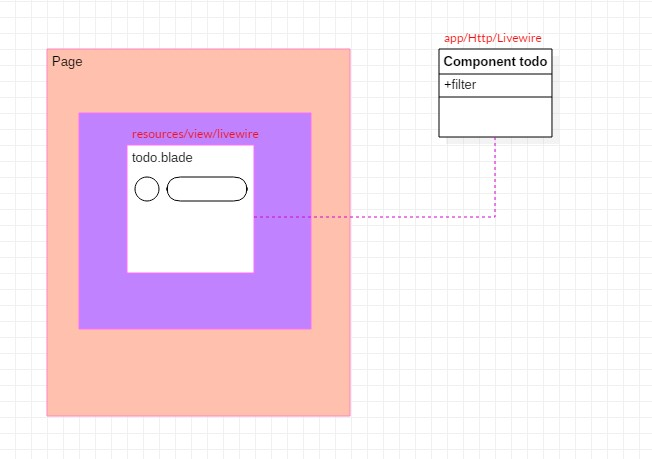
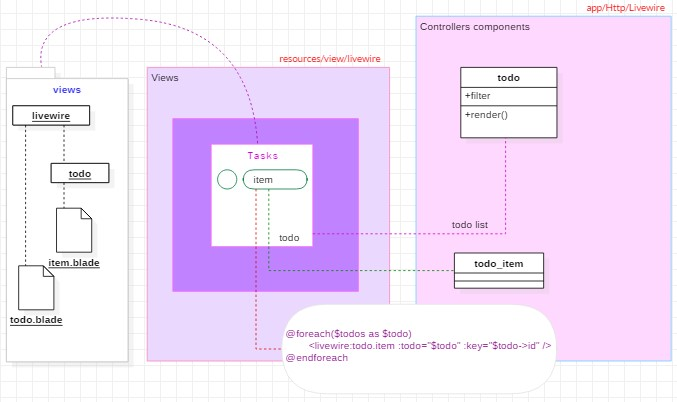
feat: add CRUD tasks

diff --git a/resources/views/livewire/todo.blade.php b/resources/views/livewire/todo.blade.php
@@ -1,42 +1,39 @@
-
 <div>
+    {{--  --}}
     <!--========== Input task ==========-->
     <div class="mb-4">
-        <div class="flex mt-4">
-            <input class="shadow appearance-none border rounded w-full py-2 px-3 mr-4 text-grey-darker" placeholder="Descrição da tarefa">
-            <button class="flex-no-shrink p-2 border-2 rounded text-teal border-teal hover:text-white hover:bg-teal">Add</button>
-        </div>
+        <livewire:todo.create/>
     </div>
 
+    {{--  --}}
     <!--========== Filter ==========-->
-    <div class="sm:flex mt-2 mb-2 sm:items-center sm:justify-center">
+    <div class="sm:flex mt-2 mb-2 sm:items-center sm:justify-center text-sm text-stone-500">
             <label for="filter_all" class="mr-3">
                 <input type="radio" id="filter_all" name="filter" wire:model="filter" value="all">
-                <span>All</span>
+                <span>Todas</span>
             </label>
 
             <label for="filter_pending" class="mr-3">
                 <input type="radio" id="filter_pending" name="filter" wire:model="filter" value="pending">
-                <span>Pending</span>
+                <span>Pendentes</span>
             </label>
 
             <label for="filter_done">
                 <input type="radio" id="filter_done" name="filter" wire:model="filter" value="done">
-                <span>Done</span>
+                <span>Concluidas</span>
             </label>
     </div>
 
-    <!--========== list todos component ==========-->
-    @foreach($todos as $todo)
-        <div class="flex mb-4 items-center">
-            <p class="w-full text-sm text-grey-darkest">{{$todo->title}}</p>
-            <input class="ml-4" type="checkbox">
-            <button class="middle none center mr-2 ml-4 rounded-lg bg-red-200 px-1 py-0 font-sans text-xs font-bold
-                            uppercase shadow-md shadow-red-300/20 transition-all hover:shadow-lg hover:shadow-red-500/40
-                            focus:opacity-[0.95] focus:shadow-none active:opacity-[0.85] active:shadow-none
-                            disabled:pointer-events-none disabled:opacity-50 disabled:shadow-none" data-ripple-light="true">
-                X
-            </button>
-        </div>
-    @endforeach
+        {{--  --}}
+        @if(count($todos) > 0)
+            @foreach($todos as $todo)
+                <livewire:todo.item :todo="$todo" :key="$todo->id" />
+            @endforeach
+        @else
+            <div class="relative flex flex-col min-w-0 break-words bg-green-300 border-0 bg-clip-border rounded-2xl mb-5 draggable">
+                <div class="px-9 pt-5 flex text-indigo-600 font-bold justify-center items-stretch flex-wrap min-h-[70px] pb-0 bg-transparent">
+                    Todas metas foram concluídas!! :)
+                </div>
+            </div>
+        @endif
 </div>

diff --git a/resources/views/todo-task.blade.php b/resources/views/todo-task.blade.php
@@ -8,9 +8,10 @@
 
     <!--================== livewire style css ==================-->
     <livewire:styles />
-
+    <script src="https://cdn.jsdelivr.net/gh/alpinejs/alpine@v2.8.2/dist/alpine.min.js" defer></script>
     <!--========== ICON REMIXICON ==========-->
     <link href="https://cdn.jsdelivr.net/npm/remixicon@2.5.0/fonts/remixicon.css" rel="stylesheet">
+
 
     <!--========== VITE css app ==========-->
     @vite('resources/css/app.css')
@@ -20,7 +21,7 @@
         <div class="max-w-md w-full p-5 bg-white rounded-lg shadow-lg">
 
             <!--========== title ==========-->
-            <h1 class="text-3xl font-semibold text-center text-gray-600 mt-1 mb-1">Lista de tarefas</h1>
+            <h1 class="text-3xl font-bold text-center text-gray-600 mt-1 mb-1">Lista de tarefas ❤</h1>
 
             <!--========== call component livewire ==========-->
             <livewire:todo/>
@@ -53,5 +54,6 @@
 
     <!--================== livewire javascript css ==================-->
     <livewire:scripts />
+    <script src="https://cdn.jsdelivr.net/gh/alpinejs/alpine@v2.8.2/dist/alpine.min.js" defer></script>
 </body>
 </html>

diff --git a/app/Http/Livewire/Todo.php b/app/Http/Livewire/Todo.php
@@ -2,20 +2,25 @@
 
 namespace App\Http\Livewire;
 
-use Livewire\Component;
 use App\Models\Todo as ModelsTodo;
+use Livewire\Component;
 
 class Todo extends Component
 {
+    public string $filter = 'all';
 
-    public $filter = 'all';
-    public $tot = 0;
+    protected $listeners = [
+        'todo::updated' => '$refresh',
+        'todo::created' => '$refresh',
+        'todo::deleted' => '$refresh'
+    ];
 
     public function render()
     {
-        $todos = \App\Models\Todo::query()
-            ->when($this->filter == "done", fn($q) => $q->where('checked', 1))
-            ->when($this->filter == "pending", fn($q)=>$q->where('checked', 0))
+        $todos = ModelsTodo::query()
+            ->when($this->filter == "done", fn($q) => $q->where('checked', true))
+            ->when($this->filter == "pending", fn($q)=>$q->where('checked', false))
+            ->orderBy('checked')
             ->get();
 
         return view('livewire.todo', [

diff --git a/app/Http/Livewire/Todo/Create.php b/app/Http/Livewire/Todo/Create.php
@@ -1,0 +1,35 @@
+<?php
+
+namespace App\Http\Livewire\Todo;
+
+use App\Models\Todo;
+use Livewire\Component;
+
+
+class Create extends Component
+{
+
+    public string $title ='';
+
+    protected $messages = [
+        'title.required' => 'A descrição é obrigatória e deve ser mais que 3 letras!'
+    ];
+
+    public function render()
+    {
+        return view('livewire.todo.create');
+    }
+
+    public function save()
+    {
+        $this->validate(['title' => ['required', 'min:3']],
+            [
+                'title.required' => 'Descrição é obrigatória!',
+                'title.min'=> 'Mínimo de 3 letras, por favor!'
+            ]);
+
+        Todo::create(['title' => $this->title]);
+        $this->reset('title');
+        $this->emitTo(\App\Http\Livewire\Todo::class, 'todo::created');
+    }
+}

diff --git a/app/Http/Livewire/Todo/Item.php b/app/Http/Livewire/Todo/Item.php
@@ -1,0 +1,34 @@
+<?php
+
+namespace App\Http\Livewire\Todo;
+
+use Livewire\Component;
+use App\Models\Todo as ModelsTodo;
+use App\Http\Livewire\Todo;
+
+class Item extends Component
+{
+
+    public ModelsTodo $todo;
+
+    protected $rules = [
+        'todo.checked' => 'boolean',
+    ];
+    
+    public function render()
+    {
+        return view('livewire.todo.item');
+    }
+
+    /**
+     * updated | atualiza tudo no componente
+     * updatedTodo | atualiza component todo_
+    */
+    public function updatedTodo()
+    {
+
+        $this->todo->save();
+
+        $this->emitTo(\App\Http\Livewire\Todo::class, 'todo::updated');
+    }
+}

diff --git a/resources/views/livewire/todo/create.blade.php b/resources/views/livewire/todo/create.blade.php
@@ -1,0 +1,15 @@
+<div>
+    {{--  --}}
+    <div class="mt-4">
+        <input class="shadow appearance-none border rounded w-full py-2 px-3 mr-4 text-grey-darker" placeholder="Descrição da tarefa"
+        wire:model.defer="title" wire:keydown.enter="save">
+
+        @error('title')
+            <div class="relative flex flex-col min-w-0 break-words bg-red-100 border-0 bg-clip-border rounded-2xl mb-5 mt-3 draggable">
+                <div class="flex text-danger font-weight-light justify-center bg-transparent">
+                    {{$message}}
+                </div>
+            </div>
+        @enderror
+    </div>
+</div>

diff --git a/resources/views/livewire/todo/delete.blade.php b/resources/views/livewire/todo/delete.blade.php
@@ -1,0 +1,9 @@
+<div>
+    <button class="middle none center mr-2 ml-4 rounded-lg bg-red-200 px-1 py-0 font-sans text-xs font-bold
+                            uppercase shadow-md shadow-red-300/20 transition-all hover:shadow-lg hover:shadow-red-500/40
+                            focus:opacity-[0.95] focus:shadow-none active:opacity-[0.85] active:shadow-none
+                            disabled:pointer-events-none disabled:opacity-50 disabled:shadow-none"
+    wire:click="destroy">
+        X
+    </button>
+</div>

diff --git a/app/Http/Livewire/Todo/Delete.php b/app/Http/Livewire/Todo/Delete.php
@@ -1,0 +1,23 @@
+<?php
+
+namespace App\Http\Livewire\Todo;
+
+use App\Models\Todo;
+use Livewire\Component;
+
+class Delete extends Component
+{
+    public Todo $todo;
+
+    public function render()
+    {
+        return view('livewire.todo.delete');
+    }
+
+    public function destroy()
+    {
+        $this->todo->delete();
+
+        $this->emitTo(\App\Http\Livewire\Todo::class, 'todo::deleted');
+    }
+}

diff --git a/resources/views/livewire/todo/item.blade.php b/resources/views/livewire/todo/item.blade.php
@@ -1,0 +1,7 @@
+<div class="flex mb-4 items-center">
+    <p class="w-full {{($todo->checked == true ? 'underline decoration-red-900 opacity-30' : '')}} text-sm text-grey-darkest">{{$todo->title}}</p>
+
+    <input class="ml-4" type="checkbox" wire:model="todo.checked">
+
+    <livewire:todo.delete :todo="$todo" :key="$todo->id .'-delete'"/>
+</div>

diff --git a/app/Models/Todo.php b/app/Models/Todo.php
@@ -9,4 +9,6 @@ use App\Models\Todo as ModelsTodo;
 class Todo extends Model
 {
     use HasFactory;
+
+    protected $fillable = ['title', 'checked'];
 }
